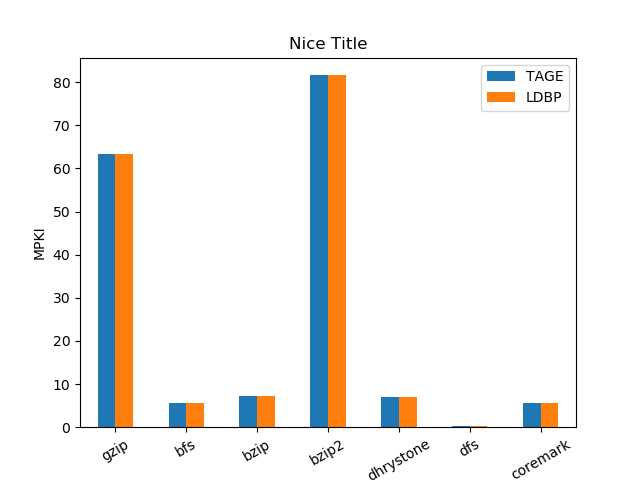
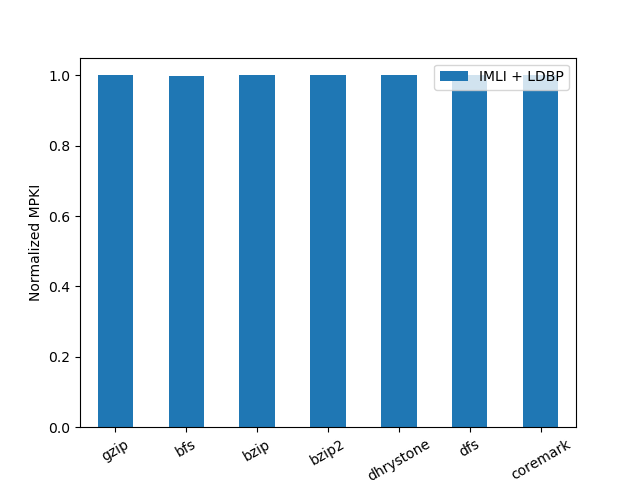
normalizing mpki to baseline imli

diff --git a/mpki/plot.py b/mpki/plot.py
@@ -42,14 +42,17 @@ with open(report_list_file, "r") as report_list:
 print("Parsed reports... Plotting...")
 print(data)
 print(data_labels)
-# Convert data to pandas DataFrame.
-df = pd.DataFrame(data, index=data_labels)
 
-# Plot
-df = df.rename(columns={0: "TAGE", 1: "LDBP"})
+data_to_plot = []
+for d in data:
+  data_to_plot.append(d[1]/d[0])
+
+# Convert data to pandas DataFrame.
+df = pd.DataFrame({'Normalized MPKI (baseline IMLI)': data_to_plot}, index=data_labels)
+
 print(df)
 ax = df.plot(kind='bar', rot=30)
 
-ax.set_ylabel("MPKI")
+ax.set_ylabel("Normalized MPKI")
 ax.set_title(plot_title)
 plt.savefig(plot_output)
